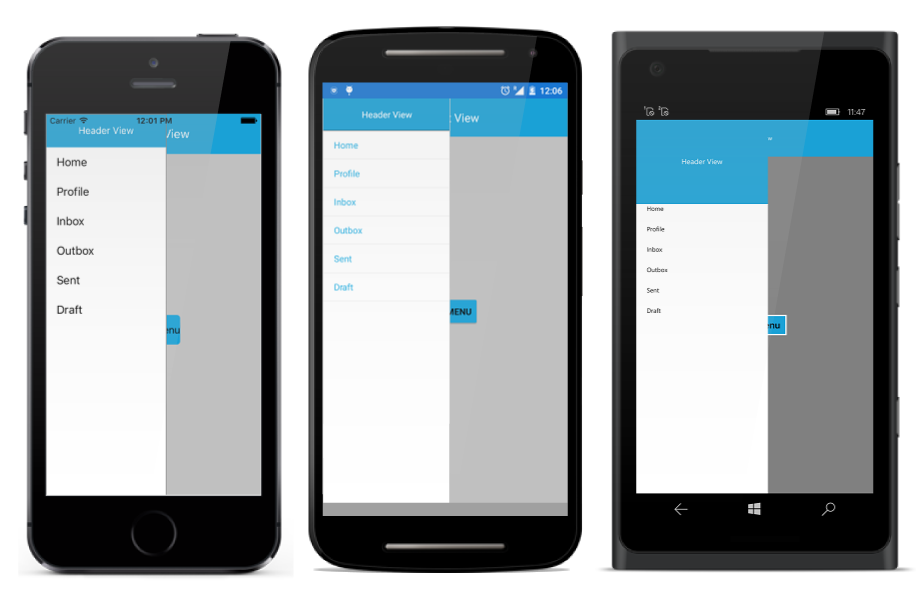
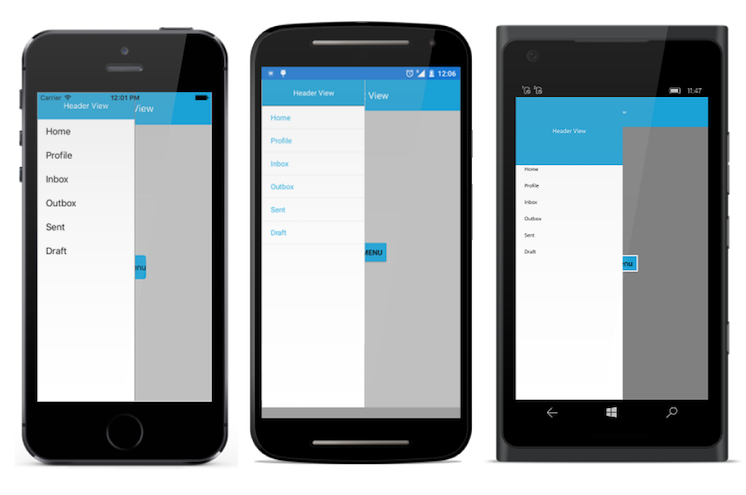
Committed Getting started and How pages

Changed region(s): [[0.8324, 0.5152, 0.8633, 0.5455], [0.2466, 0.1818, 0.2775, 0.2121]]

diff --git a/Xamarin/SfNavigationDrawer/How-To.md b/Xamarin/SfNavigationDrawer/How-To.md
@@ -52,3 +52,80 @@ navigationDrawer.Toggled += (object sender,Syncfusion.SfNavigationDrawer.XForms.
 
 {% endtabs %}
 
+## How to add burger icon to toggle menu.?
+
+By default NavigationDrawer does not provide toggle button. This can be created and customised as per the application's requirement.
+
+{% tabs %}
+
+{% highlight xaml %}
+
+ 	<navigation:SfNavigationDrawer x:Name="navigationDrawer">
+        <navigation:SfNavigationDrawer.ContentView>
+           <StackLayout x:Name="ContentFrame" Orientation="Vertical">
+				<StackLayout x:Name="headerFrame" Orientation="Horizontal">
+					 <Button x:Name="imageButton" FontSize="20" HeightRequest="50"  BackgroundColor="#1aa1d6" HorizontalOptions="Start" WidthRequest="50" />
+					 <Label x:Name="homeLabel" FontSize="15" HorizontalTextAlignment="Center" VerticalTextAlignment="Center"     HeightRequest="50"  TextColor="White" />
+			    </StackLayout>   
+				// your main content can be added here
+             </StackLayout>
+        </navigation:SfNavigationDrawer.ContentView>
+ 	</navigation:SfNavigationDrawer>
+ 
+ 
+{% endhighlight %}
+
+{% highlight c# %}
+	
+Button imageButton = new Button();
+imageButton.Source = (FileImageSource)ImageSource.FromFile ("menu.png"); // menu.png is the burger icon and it has to be added to resources
+imageButton.WidthRequest=50;
+	
+Label homeLabel=new Label();
+homeLabel.Text="Home";
+homeLabel.FontSize=15;
+homeLabel.TextColor=Color.White;
+homeLabel.HorizontalTextAlignment=TextAlignment.Center;
+homeLabel.VerticalTextAlignment=TextAlignment.Center;
+	
+StackLayout headerFrame=new StackLayout(); 
+headerFrame.Orientation = StackOrientation.Horizontal;
+headerFrame.Children.Add(imageButton);
+headerFrame.Children.Add(homeLabel);
+	
+StackLayout ContentFrame=new StackLayout();
+ContentFrame.Orientation = StackOrientation.Vertical; 
+ContentFrame.BackgroundColor=Color.White;
+ContentFrame.Children.Add(headerFrame);
+ContentFrame.Children.Add(mainContent); // here main content is not added
+navigationDrawer.ContentView=ContentFrame;
+
+imageButton.Clicked += (sender, e) =>
+{
+		DependencyService.Get<IToggleDrawer>().ToggleDrawer();
+};
+  
+{% endhighlight %}
+
+{% endtabs %}
+
+## How to modify touch drag sensitivity.?
+
+In few screens user may find difficult to drag the drawer from the edge, in such cases we can vary the touch drag region using Touch threshold property. This increases the dragging bounds of the drawer
+
+{% tabs %}
+
+{% highlight xaml %}
+
+ 	<navigation:SfNavigationDrawer x:Name="navigationDrawer" TouchThreshold="100">
+ 
+ 
+{% endhighlight %}
+
+{% highlight C# %}
+
+	navigationDrawer.TouchThreshold= 100;
+
+{% endhighlight %}
+
+{% endtabs %}

diff --git a/Xamarin/SfNavigationDrawer/Getting-Started.md b/Xamarin/SfNavigationDrawer/Getting-Started.md
@@ -395,4 +395,4 @@ SfNavigationDrawer navigationDrawer=new SfNavigationDrawer();
 
 The SfNavigationDrawer looks as follows
 
-![](images/Slide-on-top.png)
+![](images/getting-started.png)
